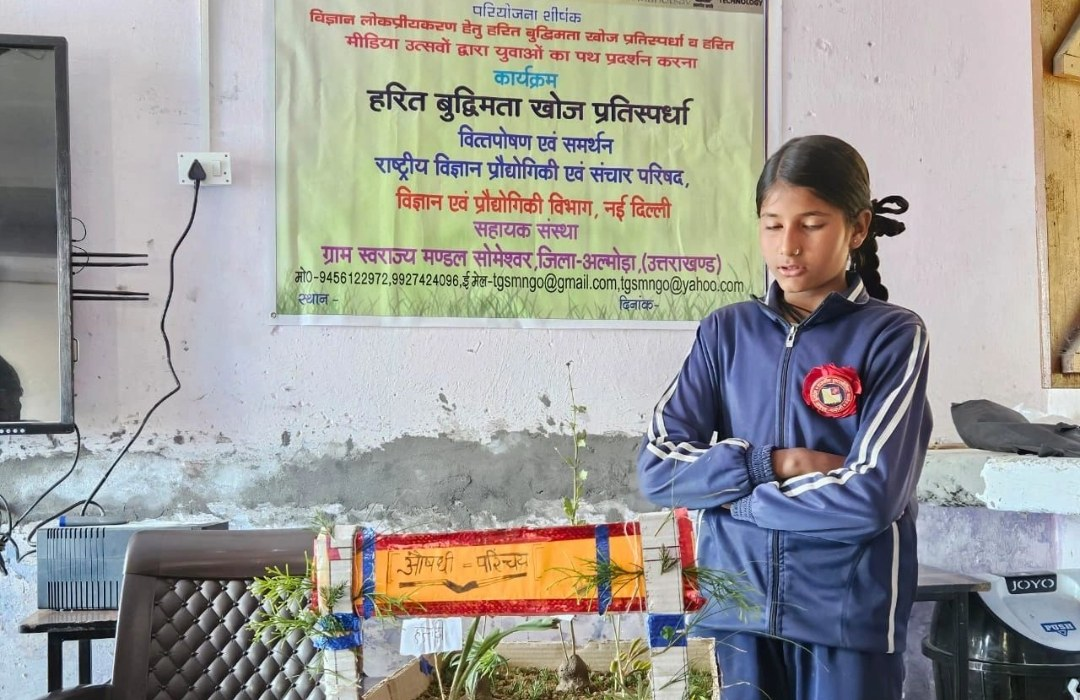
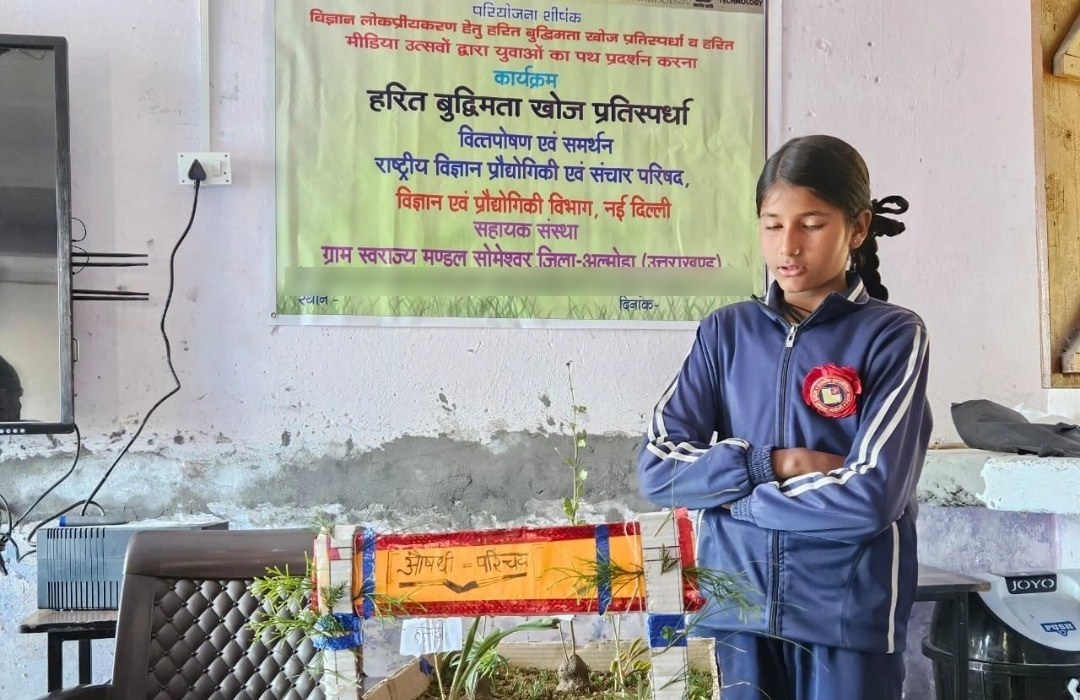
Show only tgsmngo@gmail.com as contact
Removes phone numbers and the Yahoo address, and blurs the phone/email
line printed on the contest banner photo.

Claude-Session: https://claude.ai/code/session_01DLj1AigCaj43VQVBYbxiH9

Changed region(s): [[0.275, 0.36, 0.7028, 0.42]]

diff --git a/index.html b/index.html
@@ -354,12 +354,9 @@ footer p { opacity: .85; }
           <p><a href="https://www.google.com/maps/search/?api=1&amp;query=Gram+Swarajya+Mandal+Someshwar+Almora" target="_blank" rel="noopener">Google Maps पर देखें · Open in Google Maps</a></p>
         </div>
         <div class="card">
-          <h3>फोन और ईमेल · Phone &amp; email</h3>
+          <h3>ईमेल · Email</h3>
           <div class="links">
-            <a href="tel:+919456122972">+91 94561 22972</a>
-            <a href="tel:+919927424096">+91 99274 24096</a>
             <a href="mailto:tgsmngo@gmail.com">tgsmngo@gmail.com</a>
-            <a href="mailto:tgsmngo@yahoo.com">tgsmngo@yahoo.com</a>
           </div>
         </div>
         <div class="card">
